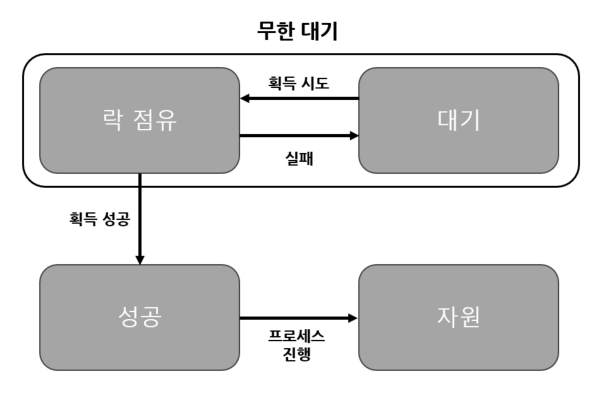
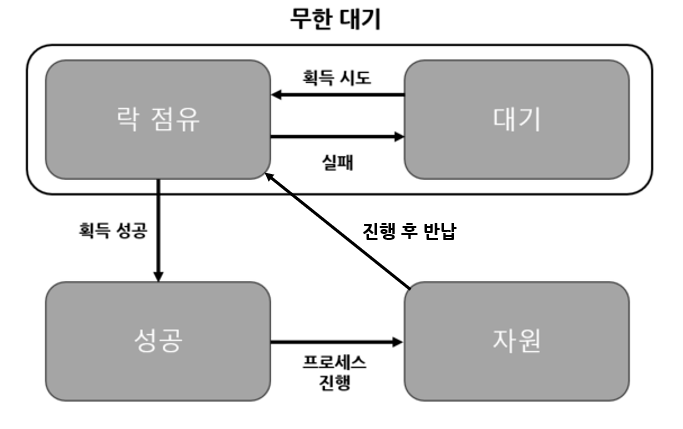
Feat: add 분산락

diff --git a/_posts/Java/2023-06-19-Distributed-Lock.md b/_posts/Java/2023-06-19-Distributed-Lock.md
@@ -48,9 +48,11 @@ Lettuce는 스핀락을 기반으로 구현된 Redis 라이브러리이다.
 
 ## Redisson
 
-스핀락의 무한 대기에 및 순회하는 동안 계속 Redis에 요청이 가게 되니 부하가 가게 될것이라, Redisson에서는 다른 방법을 도입했다.
+스핀락의 무한 대기에 및 순회하는 동안 계속 Redis에 요청이 가게 되니 부하가 가게 될 것이라, Redisson에서는 다른 방법을 도입했다.
 
 Pub / Sub (발행 / 구독) 모델을 도입해 락을 관리하도록 하였다.
+
+![Pub/Sub]({{site.url}}/public/image/2023/2023-06/19-lock003.png)
 
 계속해서 대기하는 것이 아니라, redis의 pub/sub을 이용해 이벤트가 왔을때 락의 획득 시도를 수행하도록 작성되었다.
 
@@ -71,7 +73,7 @@ docker run --name redis -d -p 6379:6379 redis
 
 redisson을 사용할 수 있도록 gradle에 추가해준다.
 
-```java
+```groovy
 dependencies {
     // redis
     implementation 'org.springframework.boot:spring-boot-starter-data-redis'
